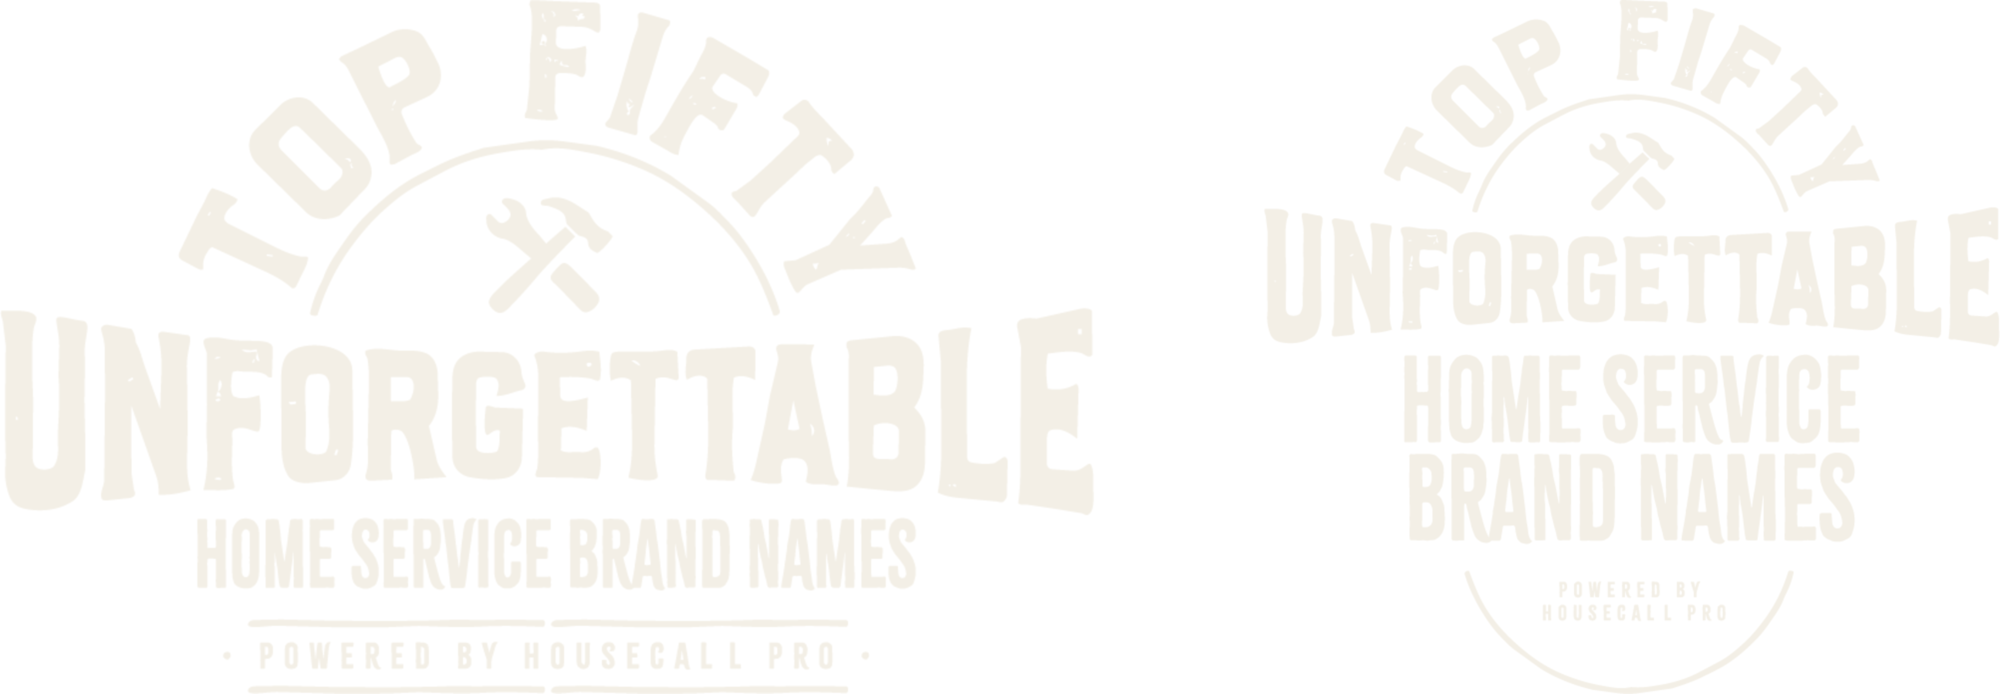
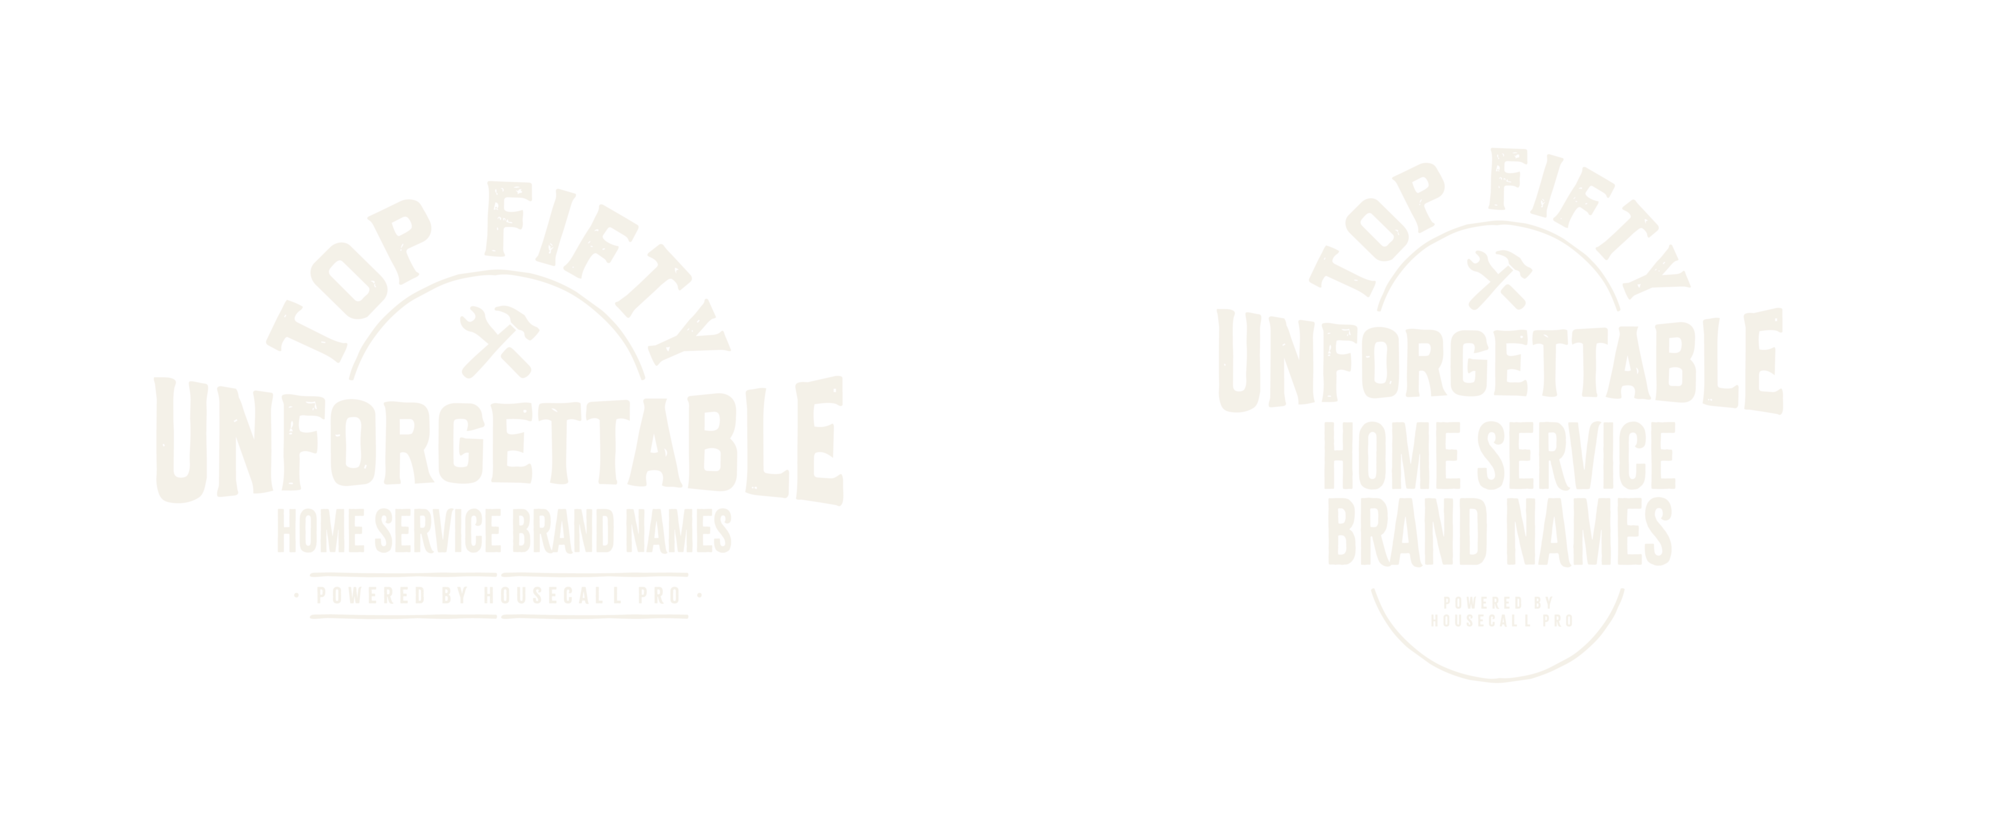
Top Fifty: lockups back to their original framing, rendered from the vector
Both lockups centred with the original margins, cream on transparent,
rasterised from the Illustrator file so the edges stay sharp.

Claude-Session: https://claude.ai/code/session_01Xna7KnqKY8ApGjCgMwRP9V

diff --git a/js/content.js b/js/content.js
@@ -238,7 +238,7 @@ window.SITE = {
           head: { en: "A trade-shop badge, *re-lettered by AI.*", pt: "Um selo de oficina, *reescrito por IA.*" },
           text: { en: "Four references and twenty-odd directions on one Flora canvas. The winner started as a vintage outfitters badge: upscaled, re-lettered with Nano Banana Pro, told to make UNFORGETTABLE bigger, then redrawn by hand as vector with a crossed hammer and wrench.", pt: "Quatro referências e umas vinte direções num canvas do Flora. A escolhida partiu de um selo vintage de outfitters: ampliado, reescrito com o Nano Banana Pro, com a ordem de deixar UNFORGETTABLE maior, e depois redesenhado à mão em vetor, com martelo e chave cruzados." },
           pills: ["*Nano Banana Pro", "*Topaz Upscaler", "Adobe CC"] },
-        { src: "images/top50/lockups.png", ar: "2000/694", col: 1, span: 12, caption: { en: "Main and stacked lockups", pt: "Assinaturas principal e empilhada" } },
+        { src: "images/top50/lockups.png", ar: "2000/831", col: 1, span: 12, caption: { en: "Main and stacked lockups", pt: "Assinaturas principal e empilhada" } },
         ...[1, 2, 3, 4, 5].map(k => ({ src: `images/top50/logo-step-${k}.jpg`, ar: "960/735", col: k === 1 ? 1 : 2 * k - 1, span: 2 })),
         { src: "images/top50/type-gin.jpg", ar: "16/9", col: 1, span: 6, caption: { en: "Gin, for headlines and the countdown", pt: "Gin, para títulos e a contagem regressiva" } },
         { src: "images/top50/type-citrus.jpg", ar: "16/9", col: 7, span: 6, caption: { en: "Citrus Gothic, the everyday voice", pt: "Citrus Gothic, a voz do dia a dia" } },

diff --git a/index.html b/index.html
@@ -9,7 +9,7 @@
 <link rel="preconnect" href="https://fonts.googleapis.com">
 <link rel="preconnect" href="https://fonts.gstatic.com" crossorigin>
 <link rel="stylesheet" href="https://fonts.googleapis.com/css2?family=Figtree:wght@500;700;900&family=JetBrains+Mono:wght@300;400;500&display=swap">
-<link rel="stylesheet" href="css/style.css?v=202610270021">
+<link rel="stylesheet" href="css/style.css?v=202610270030">
 </head>
 <body>
 
@@ -77,7 +77,7 @@
 <article class="case gut" id="case" aria-live="polite"></article>
 <div class="wipe" id="wipe" aria-hidden="true"></div>
 
-<script src="js/content.js?v=202610270021"></script>
-<script src="js/main.js?v=202610270021"></script>
+<script src="js/content.js?v=202610270030"></script>
+<script src="js/main.js?v=202610270030"></script>
 </body>
 </html>
